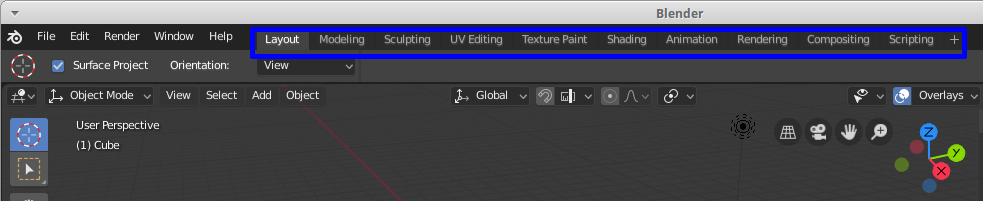
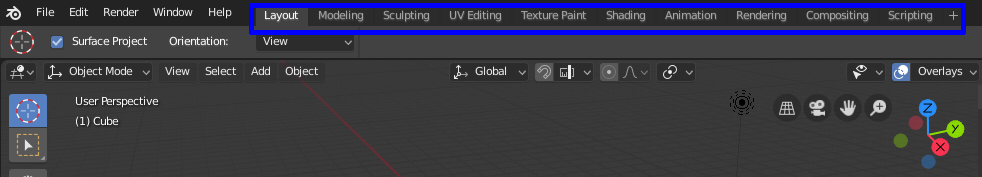
UI restore intro, workspaces
Please don't delete stuff if there's no proper replacement.
Don't include the window header in images (different between OSs).

git-svn-id: https://svn.blender.org/svnroot/bf-manual/trunk@4509 c4de1f47-6596-e411-a384-0024e86c2797

diff --git a/blender_docs/manual/interface/window_system/introduction.rst b/blender_docs/manual/interface/window_system/introduction.rst
@@ -12,36 +12,66 @@ Blender's user interface is consistent across all platforms.
 
    The default startup Blender window.
 
-The Default Screen
+
+Interface Elements
 ==================
 
-Blender default start up uses the default screen layout, which is
-separated into four screens listed below:
+.. four screens or three?
 
-- *Top bar* at the very top.
-- *Tool settings* the second row at the top.
-- *Editors* area in the middle.
-- *Status bar* at the bottom.
+Blender's interface is separated into four screens listed below:
+
+- Top bar at the very top.
+- Tool settings the second row of the Top bar.
+- Editors area in the middle.
+- Status bar at the bottom.
+
+The large editors screen is further subdivided into
+:doc:`/interface/window_system/areas` containing the different editors.
+The interface can be customized to match specific tasks using
+:doc:`workspaces </interface/window_system/workspaces>`,
+which can then be named and saved for later use. The Layout workspace is described below.
 
 .. figure:: /images/interface_window-system_introduction_default-screen.png
 
-   Blender's default Screen Layout. Top bar (blue), Tool settings
-   (yellow), Editors (green) and Status bar (red).
+   Blender's default Screen Layout. Top bar (blue), Tool settings (yellow),
+   Editors (green) and Status bar (red).
 
-The large editors screen is further subdivided into
-:doc:`/interface/window_system/areas` for use of different
-editors. Blender default start-up shows the Layout workspace in the
-editors screen. This workspace contains the following :doc:`/editors/index`:
 
-- *3D view* on top left.
-- *Outliner* on top right.
-- *Properties editor* on bottom right.
-- *Timeline* on bottom left.
-  
+The Layout Workspace
+====================
+
+Blender default startup shows the "Layout" workspace in the editors screen.
+This workspace contains the following :doc:`/editors/index`:
+
+- 3D View on top left.
+- Outliner on top right.
+- Properties editor on bottom right.
+- Timeline on bottom left.
+
+.. todo 2.8 figure:: /images/interface_window-system_introduction_layout-workspace.png
+
+   Blender's Layout Workspace with four editors.
+
+   3D View (color), Outliner (), Properties editor () and Timeline ().
+
+
+Components of an Editor
+=======================
+
+In general an editor provides a way to view and
+modify your work through a specific part of Blender.
+
 Editors are divided into :doc:`/interface/window_system/regions`.
 Regions can have smaller structuring elements like
 :doc:`tabs and panels </interface/window_system/tabs_panels>`
 with buttons, controls and widgets placed within them.
+
+.. todo 2.8 figure:: /images/interface_window-system_introduction_editor.png
+
+   The 3D View editor.
+
+   Yellow: Main Region, green: Header, blue: Tool Shelf, purple: Operator Panel,
+   red: Sidebar.
 
 
 User Interface Principles

diff --git a/blender_docs/manual/interface/window_system/workspaces.rst b/blender_docs/manual/interface/window_system/workspaces.rst
@@ -1,3 +1,4 @@
+
 **********
 Workspaces
 **********
@@ -5,36 +6,41 @@ Workspaces
 .. figure:: /images/interface_window-system_workspaces_screen.png
    :align: center
 
-   Workspaces are located at the Top bar. Layout workspace is active by default.
+   Workspaces are located at the Top bar.
 
-*Workspaces* are essentially predefined window layouts. Blender's
-flexibility with :doc:`Areas </interface/window_system/areas>` lets
-you create customized workspaces for different tasks such as modeling,
-animating, and scripting. It is often useful to quickly switch between
+*Workspaces* are essentially predefined window layouts.
+Blender's flexibility with :doc:`Areas </interface/window_system/areas>`
+lets you create customized workspaces for different tasks such as
+modeling, animating, and scripting. It is often useful to quickly switch between
 different workspaces within the same file.
 
 
 Controls
 ========
 
+Tabs
+   Click on the tabs titles to switch between the workspaces.
+   To cycle between workspaces use :kbd:`Ctrl-PageUp` and :kbd:`Ctrl-PageDown`.
 Add ``+``
-   Click on the *Add* button to add a new workspace
-:kbd:`RMB`
-   Shows the context menu, with options to duplicate, delete and reorder workspaces
+   Click on the *Add* button to add a new workspace.
+Context menu :kbd:`RMB`
+   The context menu contains options to duplicate, delete and reorder workspaces.
 
-General Workspaces
-------------------
 
-:Layout: General workspace to preview your scene and objects.
-:Modeling: Modeling workspace, for modification of geometry by modeling tools.
-:Sculpting: Sculpting workspace, for modification of meshes by sculpting tools.  
+Default Workspaces
+==================
+
+:Layout: A general workspace to preview your scene and objects.
+:Modeling: For modification of geometry by modeling tools.
+:Sculpting: For modification of meshes by sculpting tools.
 :UV Editing: Mapping of image texture coordinates to 3D surfaces.
-:Texture Paint: Tools for coloring image textures in 3D view.
-:Shading: Tools for specifying material properties for render engines.
-:Animation: Tools for making properties of objects dependent on animation time.
-:Rendering: Viewing and analysing rendering results.
+:Texture Paint: Tools for coloring image textures in the 3D View.
+:Shading: Tools for specifying material properties for rendering.
+:Animation: Tools for making properties of objects dependent on time.
+:Rendering: For viewing and analyzing rendering results.
 :Compositing: Combining and post-processing of images and rendering information.
-:Scripting: Programming workspace for scripting and automation of Blender.
+:Scripting: Programming workspace for writing scripts.
+
 
 Save and Override
 =================

diff --git a/blender_docs/manual/render/eevee/lightprobes/reflection_cubemaps.rst b/blender_docs/manual/render/eevee/lightprobes/reflection_cubemaps.rst
@@ -66,18 +66,20 @@ Visibility Collection
       This is only a filtering option.
       This means that if an object is not visible at render time it won't be visible in during the probe render.
 
+
 Custom Parallax
+===============
 
-   .. admonition:: Reference
-      :class: refbox
+.. admonition:: Reference
+   :class: refbox
 
-      :Panel:     :menuselection:`Object Data --> Custom Parallax`
+   :Panel:     :menuselection:`Object Data --> Custom Parallax`
 
-   By default, the influence volume is also the parallax volume.
-   The parallax volume is a volume on which is projected the recorded lighting. It should roughly fit it surrounding.
-   In some cases it may be better to adjust the parallax volume without touching the influence parameters.
-   In this case, just enable the *Custom Parallax* and
-   change the shape and distance of the parallax volume independently.
+By default, the influence volume is also the parallax volume.
+The parallax volume is a volume on which is projected the recorded lighting. It should roughly fit it surrounding.
+In some cases it may be better to adjust the parallax volume without touching the influence parameters.
+In this case, just enable the *Custom Parallax* and
+change the shape and distance of the parallax volume independently.
 
 
 Viewport Display

diff --git a/blender_docs/manual/editors/movie_clip_editor/tracking/dope_sheet.rst b/blender_docs/manual/editors/movie_clip_editor/tracking/dope_sheet.rst
@@ -31,7 +31,7 @@ Header
 .. figure:: /images/editors_movie-clip-editor_tracking_dope-sheet_sort.png
    :align: right
 
-   Sort oder of the channels.
+   Sort order of the channels.
 
 Show
    Only selected (mouse cursor icon)
